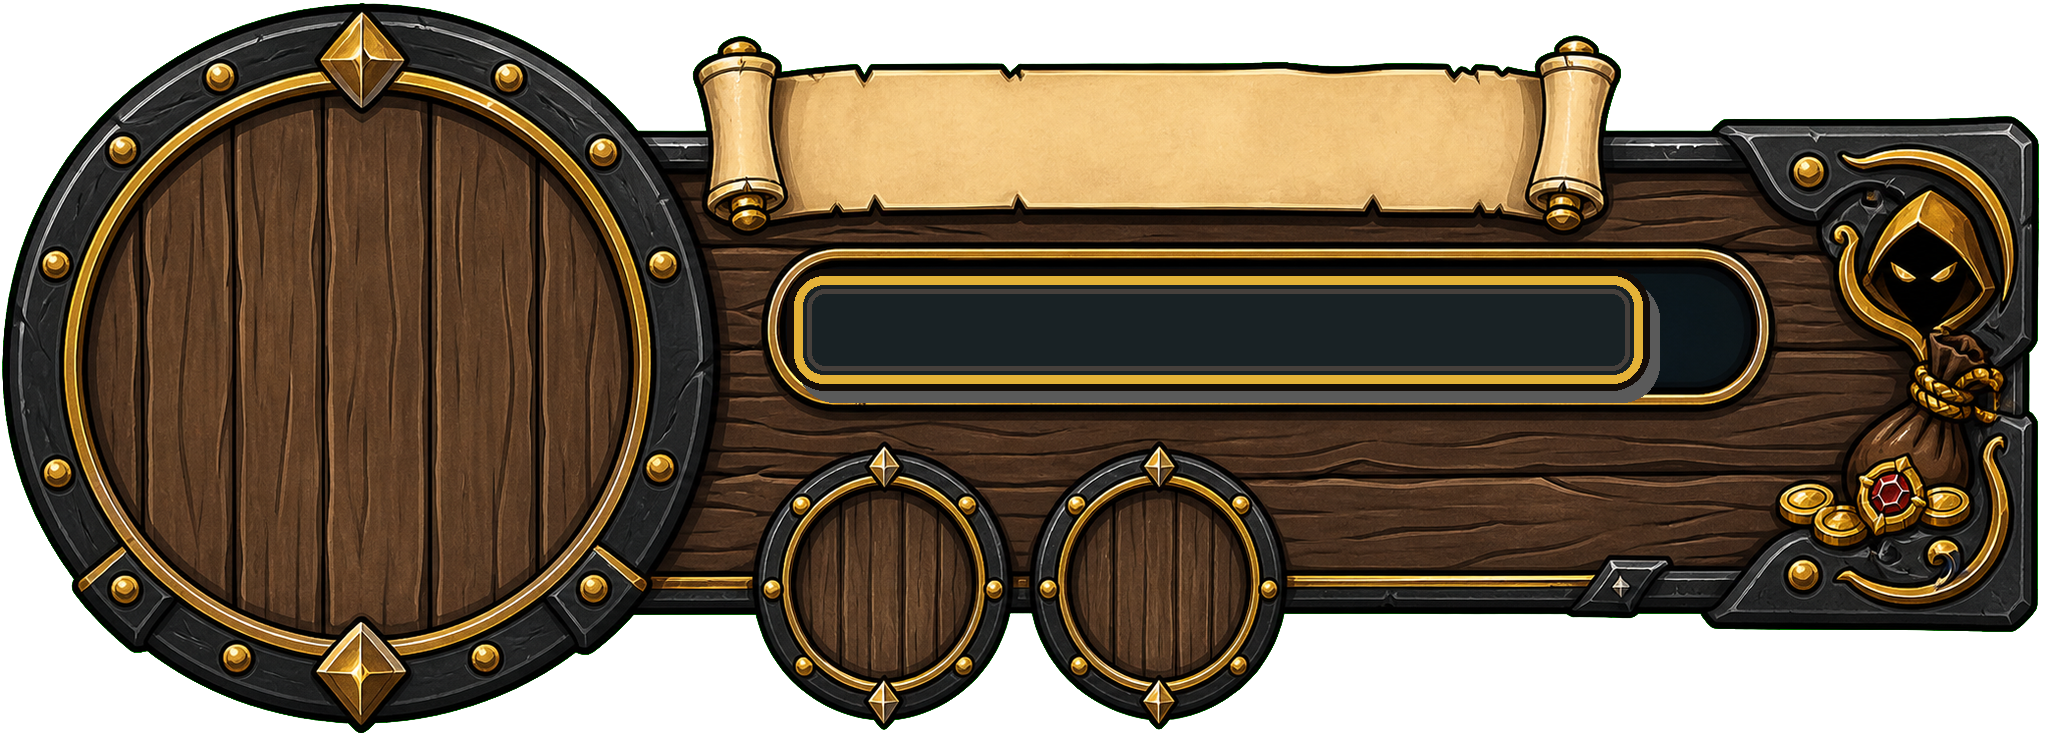
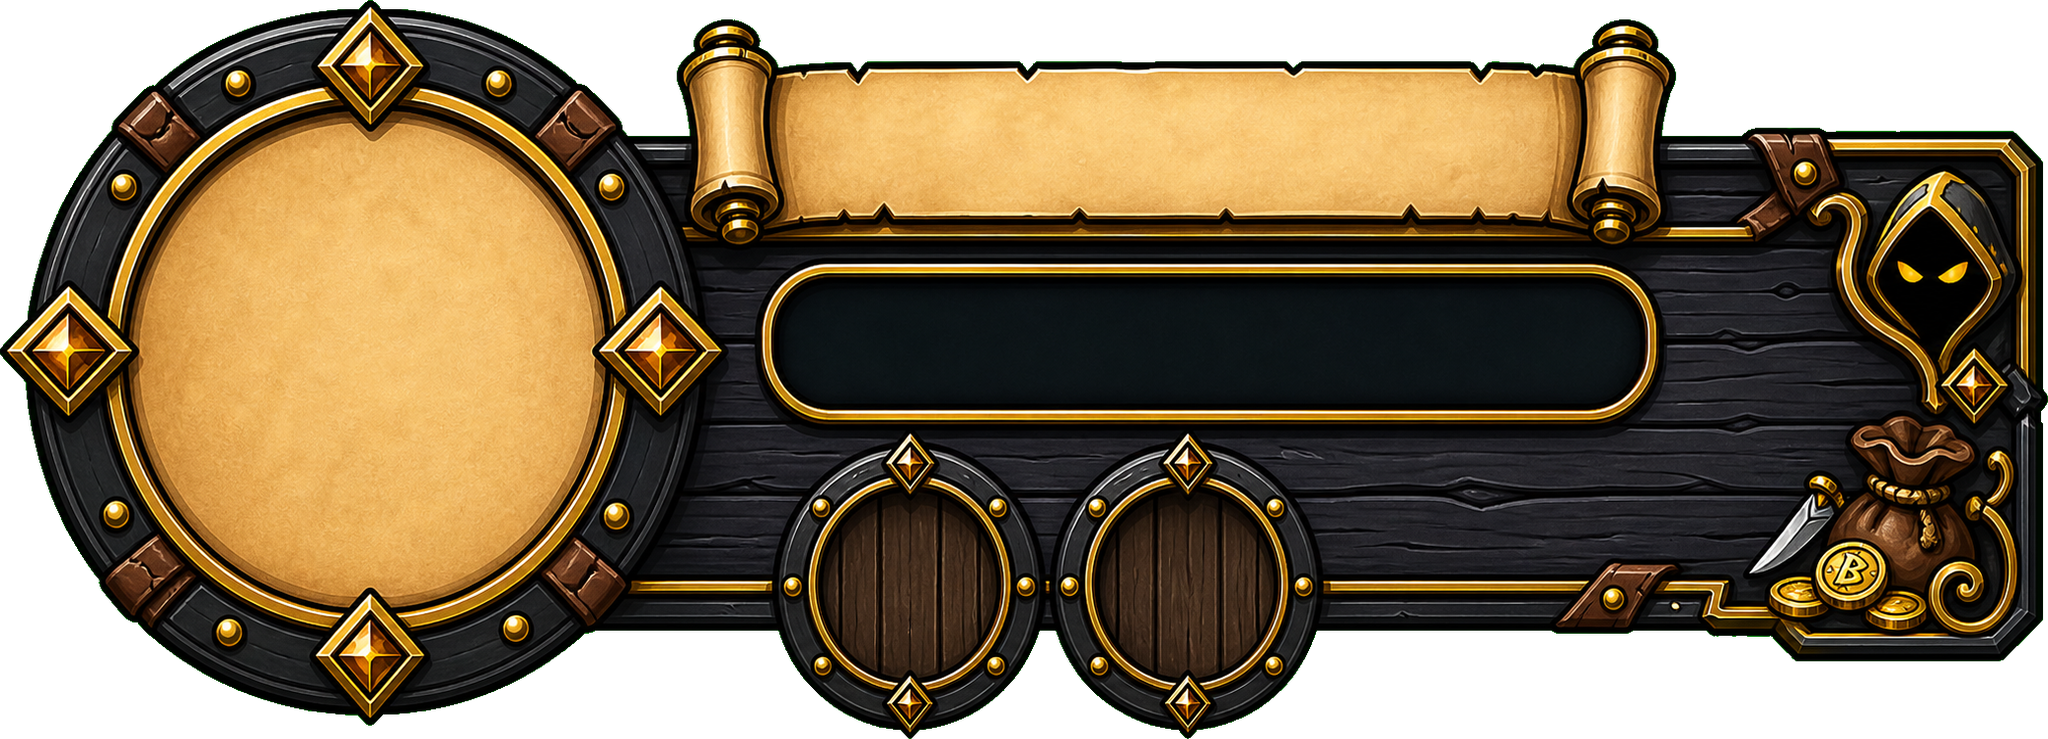
aaa

diff --git a/css/game.css b/css/game.css
@@ -144,8 +144,8 @@ body.pvp-waiting-table #game-background::after { opacity: 0.45; animation-durati
 #p-stats-cluster .mastery-row { position: absolute; left: 142px; top: 95px; display: flex; gap: 20px; margin: 0; padding: 0; justify-content: flex-start; z-index: 25000; pointer-events: auto; }
 #p-stats-cluster .mastery-icon { width: 32px; height: 32px; border: none; background: transparent; box-shadow: none; display: flex; justify-content: center; align-items: center; pointer-events: auto; position: relative; }
 #p-stats-cluster .mastery-symbol { position: absolute; left: 50%; top: 50%; width: 32px; height: 32px; display: flex; justify-content: center; align-items: center; line-height: 1; transform: translate(-50%, -50%); font-family: 'Segoe UI Symbol', 'Arial Unicode MS', sans-serif; font-size: 20px; color: #f4f7fb; text-shadow: 1px 1px 0 #1b0a03, -1px -1px 0 #1b0a03, 1px -1px 0 #1b0a03, -1px 1px 0 #1b0a03; }
-#p-stats-cluster .mastery-ataque .mastery-symbol { transform: translate(calc(-50% + 1px), calc(-50% + 1px)); }
-#p-stats-cluster .mastery-bloqueio .mastery-symbol { transform: translate(-50%, calc(-50% + 1px)); font-size: 21px; }
+#p-stats-cluster .mastery-ataque .mastery-symbol { transform: translate(-50%, -50%); }
+#p-stats-cluster .mastery-bloqueio .mastery-symbol { transform: translate(-50%, -50%); font-size: 21px; }
 #p-stats-cluster .mastery-lvl { position: absolute; bottom: -5px; right: -5px; width: 16px; height: 16px; font-size: 10px; border: 1px solid #000; }
 #m-stats-cluster { position: fixed; top: 20px; right: calc(50% - 50vw + 40px); width: 370px; height: 138px; --cluster-art-url: url('../assets/img/cluster_inimigo.webp'); --cluster-art-height: 100%; --cluster-art-top: 0%; overflow: visible; background-image: var(--cluster-art-url) !important; background-size: 100% 100%; background-repeat: no-repeat; background-position: center; background-color: transparent !important; border: none !important; border-radius: 0 !important; box-shadow: none !important; padding: 0 !important; min-width: auto !important; display: block !important; z-index: 100; filter: drop-shadow(0 10px 0px rgba(0, 0, 0, 0.5)); animation: hudFloat 4s ease-in-out infinite; }
 #p-stats-cluster.cluster-skin-equipped { background-image: none !important; }
@@ -164,8 +164,8 @@ body.pvp-waiting-table #game-background::after { opacity: 0.45; animation-durati
 #m-stats-cluster .mastery-row { position: absolute; right: 142px; top: 95px; display: flex; gap: 20px; margin: 0; padding: 0; justify-content: flex-end; pointer-events: auto; }
 #m-stats-cluster .mastery-icon { width: 32px; height: 32px; border: none; background: transparent; box-shadow: none; display: flex; justify-content: center; align-items: center; pointer-events: auto; position: relative; }
 #m-stats-cluster .mastery-symbol { position: absolute; left: 50%; top: 50%; width: 32px; height: 32px; display: flex; justify-content: center; align-items: center; line-height: 1; transform: translate(-50%, -50%); font-family: 'Segoe UI Symbol', 'Arial Unicode MS', sans-serif; font-size: 20px; color: #f4f7fb; text-shadow: 1px 1px 0 #1b0a03, -1px -1px 0 #1b0a03, 1px -1px 0 #1b0a03, -1px 1px 0 #1b0a03; }
-#m-stats-cluster .mastery-ataque .mastery-symbol { transform: translate(calc(-50% - 1px), calc(-50% + 1px)); }
-#m-stats-cluster .mastery-bloqueio .mastery-symbol { transform: translate(-50%, calc(-50% + 1px)); font-size: 21px; }
+#m-stats-cluster .mastery-ataque .mastery-symbol { transform: translate(-50%, -50%); }
+#m-stats-cluster .mastery-bloqueio .mastery-symbol { transform: translate(-50%, -50%); font-size: 21px; }
 #m-stats-cluster .mastery-lvl { position: absolute; bottom: -5px; right: -5px; width: 16px; height: 16px; font-size: 10px; border: 1px solid #000; }
 .cluster-reward-tooltip {
     position: fixed;

diff --git a/js/main.js b/js/main.js
@@ -823,7 +823,9 @@ function applyClusterSkinForUnit(u) {
     const item = getUnitEquippedItemBySlot(u, 'cluster');
     const fallback = u === player ? 'assets/img/cluster_jogador.webp' : 'assets/img/cluster_inimigo.webp';
     const assetPath = item?.asset || fallback;
-    const assetUrl = new URL(assetPath, window.location.href).href;
+    const assetUrlObj = new URL(assetPath, window.location.href);
+    if(item?.asset) assetUrlObj.searchParams.set('v', '20260630-ai-painted');
+    const assetUrl = assetUrlObj.href;
     const artHeight = Number(item?.clusterArtHeight) || 1248;
     const artHeightPct = (artHeight / 1248) * 100;
     cluster.style.setProperty('--cluster-art-url', `url("${assetUrl}")`);

diff --git a/scripts/install_ai_cluster_assets.py b/scripts/install_ai_cluster_assets.py
@@ -1,26 +1,49 @@
 from pathlib import Path
 from PIL import Image, ImageDraw
+import numpy as np
 
 
 ROOT = Path(__file__).resolve().parents[1]
 OUT = ROOT / "assets" / "img"
 GEN = Path(r"C:\Users\Victor Franco\.codex\generated_images\019f10b1-7919-77a2-8061-f27fec20be13")
 
+W, H = 2048, 739
+DOM_W, DOM_H = 370, 138
+
 ASSETS = [
-    ("cluster_cavaleiro_guardareal.webp", "ig_06b0d5b496bc2f85016a43728540c08191892046e8b183e5ce.png", (24, 89, 190)),
-    ("cluster_mago_chamaarcana.webp", "ig_06b0d5b496bc2f85016a4372d2a0cc81919dde653b87cff7a2.png", (184, 35, 30)),
-    ("cluster_arqueiro_sentinelaverde.webp", "ig_06b0d5b496bc2f85016a4373141ca081919793b6028c5b254d.png", (40, 142, 55)),
-    ("cluster_ladino_maodourada.webp", "ig_06b0d5b496bc2f85016a43735b70bc81919908427aba2fd92f.png", (54, 48, 43)),
-    ("cluster_oraculo_visaoastral.webp", "ig_06b0d5b496bc2f85016a4373b37a2481918fde7aedb29abee2.png", (92, 35, 160)),
+    ("cluster_cavaleiro_guardareal.webp", "ig_07c1f2575ebdbe42016a438320092c8191b7f07f6f819fc802.png"),
+    ("cluster_mago_chamaarcana.webp", "ig_07c1f2575ebdbe42016a43837cde488191a7e75cc9aa2c05e1.png"),
+    ("cluster_arqueiro_sentinelaverde.webp", "ig_07c1f2575ebdbe42016a4383cf5d008191a2dd2db66d39ac3c.png"),
+    ("cluster_ladino_maodourada.webp", "ig_07c1f2575ebdbe42016a43842472548191988d0e3305902cd6.png"),
+    ("cluster_oraculo_visaoastral.webp", "ig_07c1f2575ebdbe42016a4384737308819184164f90caf2f45e.png"),
 ]
 
-W, H = 2048, 739
-HUD = {
-    "level": (354, 386, 136),
-    "name": (554, 65, 1716, 165),
-    "hp": (775, 257, 1661, 402),
-    "masteries": ((913, 578, 86), (1190, 578, 86)),
+HUD_DOM = {
+    "level_center": (64, 72),
+    "level_radius": 34,
+    "name_box": (100, 17, 310, 39),
+    "hp_box": (140, 48, 300, 75),
+    "mastery_centers": ((165, 108), (215, 108)),
+    "mastery_radius": 16,
 }
+
+
+def sx(x):
+    return x * W / DOM_W
+
+
+def sy(y):
+    return y * H / DOM_H
+
+
+def box_dom(box):
+    x1, y1, x2, y2 = box
+    return (sx(x1), sy(y1), sx(x2), sy(y2))
+
+
+def point_dom(point):
+    x, y = point
+    return (sx(x), sy(y))
 
 
 def key_color_for(img):
@@ -34,81 +57,74 @@ def key_color_for(img):
 
 
 def remove_key(img):
-    rgba = img.convert("RGBA")
-    key = key_color_for(rgba)
-    pixels = rgba.load()
-    for y in range(rgba.height):
-        for x in range(rgba.width):
-            r, g, b, a = pixels[x, y]
-            dist = ((r - key[0]) ** 2 + (g - key[1]) ** 2 + (b - key[2]) ** 2) ** 0.5
-            if dist < 34:
-                pixels[x, y] = (r, g, b, 0)
-            elif dist < 118:
-                alpha = int(255 * (dist - 34) / 84)
-                # Despill toward neutral dark to avoid green/magenta fringes.
-                nr = int((r + min(r, 40)) / 2) if key[0] > 200 else r
-                ng = int((g + min(g, 40)) / 2) if key[1] > 200 else g
-                nb = int((b + min(b, 40)) / 2) if key[2] > 200 else b
-                pixels[x, y] = (nr, ng, nb, min(a, alpha))
-    return rgba
+    img = img.convert("RGBA")
+    key = key_color_for(img)
+    arr = np.array(img).astype(np.float32)
+    rgb = arr[:, :, :3]
+    alpha = arr[:, :, 3]
+    key_arr = np.array(key, dtype=np.float32)
+    dist = np.sqrt(np.sum((rgb - key_arr) ** 2, axis=2))
+    alpha = np.where(dist < 38, 0, alpha)
+    soft = (dist >= 38) & (dist < 120)
+    alpha = np.where(soft, alpha * ((dist - 38) / 82), alpha)
+    r, g, b = rgb[:, :, 0], rgb[:, :, 1], rgb[:, :, 2]
+    if key[1] > 180:
+        chroma = (g > 120) & (g > r * 1.22) & (g > b * 1.22)
+        alpha = np.where(chroma, 0, alpha)
+    if key[0] > 180 and key[2] > 180:
+        chroma = (r > 120) & (b > 120) & (r > g * 1.22) & (b > g * 1.22)
+        alpha = np.where(chroma, 0, alpha)
+    arr[:, :, 3] = np.clip(alpha, 0, 255)
+    return Image.fromarray(arr.astype(np.uint8), "RGBA")
 
 
-def prepare(src):
-    img = Image.open(src).convert("RGBA")
-    if img.size != (W, H):
-        img = img.resize((W, H), Image.Resampling.LANCZOS)
-    return remove_key(img)
+def normalize_to_canvas(src):
+    img = remove_key(Image.open(src))
+    bbox = img.getbbox()
+    if not bbox:
+        raise ValueError(f"Empty generated art: {src}")
+    cropped = img.crop(bbox)
+    # Fit the AI-painted cluster itself to the exact game asset canvas.
+    fitted = cropped.resize((W, H), Image.Resampling.LANCZOS)
+    return fitted
 
 
-def draw_fixed_hp_socket(img, accent):
-    x1, y1, x2, y2 = HUD["hp"]
+def draw_audit_marks(img):
     d = ImageDraw.Draw(img, "RGBA")
-    gold = (228, 178, 56, 255)
-    dark = (13, 22, 25, 242)
-    shadow = (0, 0, 0, 165)
-    x1 += 12
-    y1 += 12
-    x2 -= 12
-    y2 -= 12
-    radius = 38
-    d.rounded_rectangle((x1 + 10, y1 + 12, x2 + 10, y2 + 12), radius=radius, fill=shadow)
-    d.rounded_rectangle((x1, y1, x2, y2), radius=radius, fill=dark, outline=(20, 12, 8, 255), width=15)
-    d.rounded_rectangle((x1 + 7, y1 + 7, x2 - 7, y2 - 7), radius=radius - 8, outline=gold, width=9)
-    d.rounded_rectangle((x1 + 20, y1 + 20, x2 - 20, y2 - 20), radius=radius - 20, outline=(*accent, 235), width=5)
-    return img
+    lx, ly = point_dom(HUD_DOM["level_center"])
+    lr = sx(HUD_DOM["level_radius"])
+    d.ellipse((lx - lr, ly - lr, lx + lr, ly + lr), outline=(255, 230, 0, 255), width=7)
+    d.rectangle(box_dom(HUD_DOM["name_box"]), outline=(0, 255, 255, 255), width=7)
+    d.rectangle(box_dom(HUD_DOM["hp_box"]), outline=(0, 255, 0, 255), width=7)
+    mr = sx(HUD_DOM["mastery_radius"])
+    for center in HUD_DOM["mastery_centers"]:
+        cx, cy = point_dom(center)
+        d.ellipse((cx - mr, cy - mr, cx + mr, cy + mr), outline=(255, 0, 255, 255), width=7)
+        d.line((cx - sx(5), cy, cx + sx(5), cy), fill=(255, 255, 255, 255), width=5)
+        d.line((cx, cy - sy(5), cx, cy + sy(5)), fill=(255, 255, 255, 255), width=5)
 
 
-def make_audit(images):
+def make_audit(processed):
     rows = []
-    for name, img in images:
+    for _, img in processed:
         bg = Image.new("RGBA", (W, H), (28, 28, 28, 255))
         bg.alpha_composite(img)
-        d = ImageDraw.Draw(bg)
-        x, y, r = HUD["level"]
-        d.ellipse((x - r, y - r, x + r, y + r), outline=(255, 230, 0, 255), width=7)
-        d.rectangle(HUD["name"], outline=(0, 255, 255, 255), width=7)
-        d.rectangle(HUD["hp"], outline=(0, 255, 0, 255), width=7)
-        for x, y, r in HUD["masteries"]:
-            d.ellipse((x - r, y - r, x + r, y + r), outline=(255, 0, 255, 255), width=7)
-            d.line((x - 26, y, x + 26, y), fill=(255, 255, 255, 255), width=5)
-            d.line((x, y - 26, x, y + 26), fill=(255, 255, 255, 255), width=5)
+        draw_audit_marks(bg)
         rows.append(bg.resize((740, 267), Image.Resampling.LANCZOS))
-
     audit = Image.new("RGBA", (740, 267 * len(rows)), (18, 18, 18, 255))
     for i, row in enumerate(rows):
-        audit.alpha_composite(row, (0, 267 * i))
+        audit.alpha_composite(row, (0, i * 267))
     return audit
 
 
 def main():
     processed = []
-    for out_name, src_name, accent in ASSETS:
-        img = prepare(GEN / src_name)
-        img = draw_fixed_hp_socket(img, accent)
+    for out_name, src_name in ASSETS:
+        img = normalize_to_canvas(GEN / src_name)
         img.save(OUT / out_name, "WEBP", lossless=True, quality=100, method=6)
         processed.append((out_name, img))
     make_audit(processed).save(OUT / "cluster_alignment_audit.png")
-    print("Installed", len(processed), "AI cluster assets")
+    print("Installed", len(processed), "AI-painted cluster assets")
 
 
 if __name__ == "__main__":
